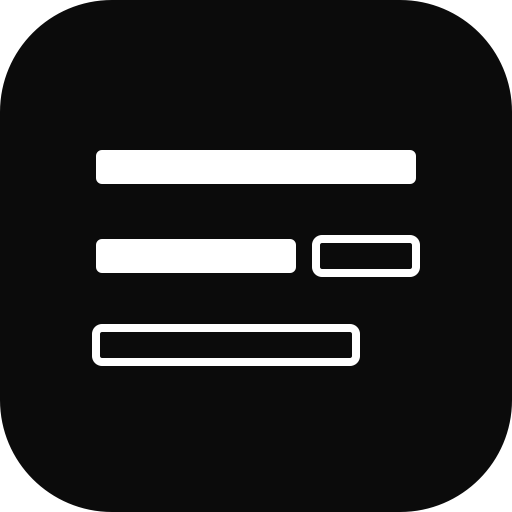
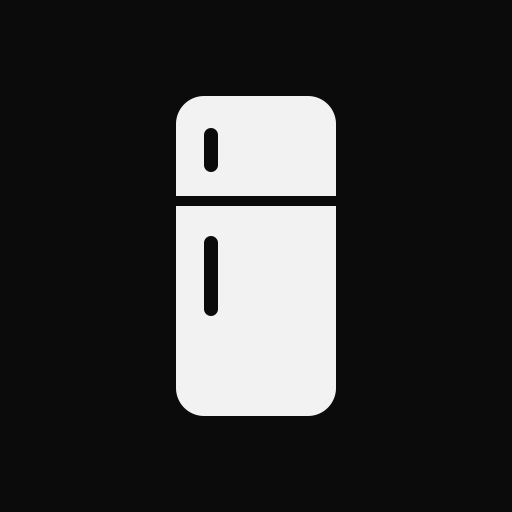
Spiżarnia zamiast blatu (regał), plecak jako pudełko śniadaniowe, nowa ikona z lodówką

diff --git a/app/ekrany/lodowka.js b/app/ekrany/lodowka.js
@@ -1,4 +1,4 @@
-// Kuchnia (dawniej Lodówka): lodówka z ugotowanymi porcjami, blat ze śniadaniami i plecak z przekąską.
+// Kuchnia (dawniej Lodówka): lodówka z ugotowanymi porcjami, spiżarnia ze śniadaniami i plecak z przekąską.
 // Podpowiada miejsce według pory dnia, ale jesz, na co masz ochotę.
 import {
   cofnijPrzelozenie, cofnijZjedzenie, lodowka, przelozDoLodowki, przepisy, tenTydzien, wlozDoLodowki,
@@ -42,7 +42,7 @@ function wyjazdTekst(app, plan, dzisiaj) {
   return ` · ${jutro ? "jutro" : wDzien(kiedy)} ${stan === "wieczor" ? "wieczorem" : "rano"} ${esc(wyjazd)}`;
 }
 
-// Kuchnia narysowana na górze ekranu: lodówka, blat i plecak na haczyku. Podpowiadane miejsce (według pory dnia)
+// Kuchnia narysowana na górze ekranu: lodówka, spiżarnia (regał) i plecak (pudełko śniadaniowe). Podpowiadane miejsce (według pory dnia)
 // jest jaśniejsze; stuknięcie innego otwiera je pod rysunkiem. Lodówka pokazuje karteczkę „Najpierw” i półki.
 let miejsce = null; // miejsce wybrane ręcznie; null = to, które podpowiada pora dnia
 let wybrane = null; // id porcji przeniesionej na karteczkę stuknięciem półki
@@ -77,11 +77,29 @@ function karteczka(app, x, dzisiaj, pierwsze, ileWZamrazarce, plan) {
         <button type="button" class="link" data-akcja="juzUgotowane">już ugotowane</button></div>`;
   }
   if (ileWZamrazarce) {
-    return `<h1>W lodówce pusto</h1><span class="wyciszony">Przełóż coś z zamrażarki na jutro, a dziś zajrzyj na blat: tam jest coś bez gotowania.</span>${cofnij}`;
+    return `<h1>W lodówce pusto</h1><span class="wyciszony">Przełóż coś z zamrażarki na jutro, a dziś zajrzyj do spiżarni: tam jest coś bez gotowania.</span>${cofnij}`;
   }
   return `<h1>Lodówka jest pusta</h1><span class="wyciszony">Ułóż plan na tydzień: planer wybierze dania na poniedziałkowe gotowanie i zrobi listę zakupów.</span>
     <div class="przyciski"><a class="przycisk glowny" href="#tydzien">Ułóż tydzień</a></div>${cofnij}`;
 }
+
+// Kształt rysunku: prostokąt w pikselach (x, y, szerokość, wysokość), rola koloru i zaokrąglenie.
+const k = (x, y, w, h, rola, r = "0") => `<span class="${rola}" style="left:${x}px;top:${y}px;width:${w}px;height:${h}px;border-radius:${r}"></span>`;
+
+// Spiżarnia: regał z trzema półkami — słoiki z pokrywkami, paczka, puszki, torebka i duże słoje.
+const SPIZARNIA = [
+  k(0, 0, 130, 150, "ksztalt", "10px"), k(7, 7, 116, 136, "ciemne", "6px"), k(7, 52, 116, 5, "detal"), k(7, 98, 116, 5, "detal"),
+  ...[[14, 30], [34, 24], [54, 34]].flatMap(([x, h]) => [k(x, 52 - h, 16, h, "akcent", "5px"), k(x + 2, 48 - h, 12, 5, "detal", "2px")]),
+  k(82, 22, 30, 30, "akcent", "4px"),
+  ...[14, 34, 54].map((x) => k(x, 76, 17, 22, "akcent", "3px")), k(80, 64, 30, 34, "akcent", "6px 6px 3px 3px"),
+  k(16, 111, 34, 32, "akcent", "8px"), k(58, 117, 26, 26, "akcent", "8px"), k(92, 113, 24, 30, "akcent", "8px"),
+].join("");
+
+// Plecak: pudełko śniadaniowe z rączką i zapięciem.
+const PUDELKO = [
+  k(24, 42, 44, 22, "detal", "22px 22px 0 0"), k(32, 50, 28, 14, "ciemne", "14px 14px 0 0"),
+  k(0, 62, 92, 64, "ksztalt", "14px"), k(0, 62, 92, 18, "detal", "14px 14px 4px 4px"), k(38, 74, 16, 14, "akcent", "4px"),
+].join("");
 
 function rysunekKuchni(wyb, pod) {
   const przycisk = (co, rys) => `<button type="button" class="miejsce m-${co}${co === wyb ? " wybrane" : ""}${co === pod ? " podpowiadane" : ""}"
@@ -89,8 +107,8 @@ function rysunekKuchni(wyb, pod) {
       <span class="rys" aria-hidden="true">${rys}</span><span class="podpis">${MIEJSCA[co]}</span></button>`;
   return `<div class="kuchnia" role="group" aria-label="Kuchnia">
     ${przycisk("lod", `<span class="ksztalt lod-korpus"><span class="lod-zam"></span><span class="detal lod-uchwyt g"></span><span class="detal lod-uchwyt d"></span></span>`)}
-    ${przycisk("blat", `<span class="detal sloik s1"></span><span class="detal sloik s2"></span><span class="owoc o1"></span><span class="owoc o2"></span><span class="owoc o3"></span><span class="detal miska"></span><span class="blat-gora"></span><span class="ksztalt szafka"></span>`)}
-    ${przycisk("plecak", `<span class="hak"></span><span class="detal ucho"></span><span class="ksztalt worek"></span><span class="detal klapa"></span><span class="detal kieszen"></span>`)}
+    ${przycisk("blat", SPIZARNIA)}
+    ${przycisk("plecak", PUDELKO)}
   </div>`;
 }
 
@@ -148,7 +166,7 @@ function panelBlat(app, pod, dzisiaj, maPorcje) {
     czesci.push(grupa("Z tego, co masz, zrobisz też", lista(propozycje(stan, { posilek: "sniadanie", pomin: sn ? [sn] : [] }))));
   }
   const owoce = naBlacie(stan);
-  czesci.push(grupa("Na blacie", owoce.length ? `<p class="wyciszony">${esc(owoce.join(", "))}</p>` : ""));
+  czesci.push(grupa("Owoce", owoce.length ? `<p class="wyciszony">${esc(owoce.join(", "))}</p>` : ""));
   const spizarnia = wSpizarni(app.dane, stan);
   czesci.push(grupa("W spiżarni", spizarnia.length ? `<p class="wyciszony">${esc(spizarnia.slice(0, 8).join(", "))}${spizarnia.length > 8 ? ` i ${spizarnia.length - 8} innych` : ""}</p>` : ""));
   return czesci.join("");

diff --git a/styl.css b/styl.css
@@ -345,7 +345,7 @@ body.gotowanie-poziomo main {
 .zakupy-pozycja input { width: 24px; height: 24px; margin-top: 2px; accent-color: #BDBDBD; flex-shrink: 0; }
 .zakupy-pozycja.kupione { opacity: 0.35; text-decoration: line-through; }
 
-/* --- Kuchnia: rysunek (lodówka, blat, plecak na haczyku); podpowiadane albo wybrane miejsce jest jaśniejsze --- */
+/* --- Kuchnia: rysunek (lodówka, spiżarnia, plecak); podpowiadane albo wybrane miejsce jest jaśniejsze --- */
 .kuchnia { height: 196px; display: flex; align-items: flex-end; justify-content: space-between; gap: 10px; padding: 0 4px; }
 .miejsce { border: none; background: none; padding: 0; color: inherit; cursor: pointer; display: flex; flex-direction: column; align-items: center; gap: 8px; }
 .miejsce .rys { position: relative; display: block; }
@@ -363,26 +363,12 @@ body.gotowanie-poziomo main {
 .miejsce .lod-uchwyt { left: 10px; width: 5px; border-radius: 3px; }
 .miejsce .lod-uchwyt.g { top: 15px; height: 24px; }
 .miejsce .lod-uchwyt.d { top: 66px; height: 44px; }
-.m-blat .rys { width: 124px; height: 124px; }
-.miejsce .sloik { bottom: 80px; width: 16px; border-radius: 6px; }
-.miejsce .sloik.s1 { left: 8px; height: 30px; }
-.miejsce .sloik.s2 { left: 28px; height: 22px; }
-.miejsce .miska { left: 62px; bottom: 80px; width: 46px; height: 20px; border-radius: 0 0 23px 23px; }
-.miejsce .owoc { width: 14px; height: 14px; border-radius: 50%; background: #2E2E2E; }
-.miejsce.wybrane .owoc { background: #8C8C8C; }
-.miejsce .owoc.o1 { left: 70px; bottom: 96px; }
-.miejsce .owoc.o2 { left: 85px; bottom: 97px; }
-.miejsce .owoc.o3 { left: 77px; bottom: 108px; }
-.miejsce .blat-gora { left: 0; right: 0; bottom: 70px; height: 10px; border-radius: 4px; background: #2A2A2A; }
-.miejsce.wybrane .blat-gora { background: #6E6E6E; }
-.miejsce .szafka { left: 5px; right: 5px; bottom: 0; height: 70px; border-radius: 0 0 10px 10px; }
-/* Plecak wisi na haczyku wyżej, ale jego podpis stoi w jednej linii z pozostałymi. */
-.m-plecak .rys { width: 78px; height: 126px; margin-bottom: 34px; }
-.miejsce .hak { left: 33px; top: 0; width: 12px; height: 12px; border-radius: 50%; background: #2A2A2A; }
-.miejsce .ucho { left: 28px; top: 7px; width: 22px; height: 20px; border-radius: 11px 11px 0 0; }
-.miejsce .worek { left: 3px; top: 22px; width: 72px; height: 100px; border-radius: 22px 22px 12px 12px; }
-.miejsce .klapa { left: 3px; top: 22px; width: 72px; height: 34px; border-radius: 22px 22px 9px 9px; }
-.miejsce .kieszen { left: 16px; top: 78px; width: 46px; height: 30px; border-radius: 9px; }
+/* Spiżarnia (regał) i plecak (pudełko śniadaniowe): kształty z pozycją w stylu, kolor z roli */
+.m-blat .rys { width: 130px; height: 150px; }
+.m-plecak .rys { width: 92px; height: 126px; }
+.miejsce .akcent { background: #2E2E2E; }
+.miejsce.wybrane .akcent { background: #8C8C8C; }
+.miejsce .ciemne { background: var(--tlo); }
 .panel-kuchni { display: flex; flex-direction: column; gap: 14px; }
 .grupa-kuchni { display: flex; flex-direction: column; gap: 2px; margin-top: 4px; }
 .grupa-kuchni h2 { margin: 0 0 2px; font-weight: 600; }

diff --git a/app/kuchnia.js b/app/kuchnia.js
@@ -1,11 +1,12 @@
-// Kuchnia: trzy miejsca — lodówka (ugotowane porcje), blat (śniadania, owoce, spiżarnia) i plecak (przekąska).
-// Planer patrzy na godzinę i podpowiada jedno miejsce. Blat i plecak niczego nie liczą: pokazują danie z planu
+// Kuchnia: trzy miejsca — lodówka (ugotowane porcje), spiżarnia (śniadania, owoce, zapasy) i plecak (przekąska).
+// Planer patrzy na godzinę i podpowiada jedno miejsce. Spiżarnia i plecak niczego nie liczą: pokazują danie z planu
 // i co jeszcze da się zrobić z tego, co jest w domu albo na liście zakupów tego tygodnia.
 import { kontekst, planZDopisanymi, tenTydzien } from "./stan.js";
 import { dodaj, roznica } from "./narzedzia.js";
 import { zapotrzebowanie } from "../silnik/generator.js";
 
-export const MIEJSCA = { lod: "Lodówka", blat: "Blat", plecak: "Plecak" };
+// „blat” to dziś Spiżarnia (nazwa wewnętrzna została, żeby nie ruszać zapisanych danych).
+export const MIEJSCA = { lod: "Lodówka", blat: "Spiżarnia", plecak: "Plecak" };
 export const DOMYSLNE_GODZINY = { sniadanie: "07:30", przekaska: "11:00", obiad: "14:00", kolacja: "19:00" };
 export const POSILKI_KUCHNI = ["sniadanie", "przekaska", "obiad", "kolacja"];
 const MIEJSCE_POSILKU = { sniadanie: "blat", przekaska: "plecak", obiad: "lod", kolacja: "lod" };
@@ -35,7 +36,7 @@ export function poraDnia(profil, teraz = new Date()) {
   return p ? { posilek: p, jutro: false, przed: false } : { posilek: "sniadanie", jutro: false, przed: true };
 }
 
-// Podpowiadane miejsce i krótki powód. Pusta lodówka w porze obiadu albo kolacji → blat (coś bez gotowania).
+// Podpowiadane miejsce i krótki powód. Pusta lodówka w porze obiadu albo kolacji → spiżarnia (coś bez gotowania).
 export function podpowiedz(profil, maPorcje, teraz = new Date()) {
   const pora = poraDnia(profil, teraz);
   let miejsce = MIEJSCE_POSILKU[pora.posilek];

diff --git a/app/ekrany/wiecej.js b/app/ekrany/wiecej.js
@@ -83,7 +83,7 @@ function rysujProfil(app) {
       <div class="siatka2">
         ${POSILKI_KUCHNI.map((k) => `<label class="pole">${POSILKI[k].replace(/^./, (z) => z.toUpperCase())}<input name="godz_${k}" type="time" value="${esc(godziny[k])}"></label>`).join("")}
       </div>
-      <p class="wyciszony maly">Według nich Kuchnia podpowiada: rano blat, w porze przekąski plecak, w porze obiadu i kolacji lodówkę.</p>
+      <p class="wyciszony maly">Według nich Kuchnia podpowiada: rano spiżarnię, w porze przekąski plecak, w porze obiadu i kolacji lodówkę.</p>
       <label class="pole">Czego nie jesz (po przecinku)<input name="wykluczone" type="text" value="${esc((p.wykluczone ?? []).join(", "))}"></label>
       <p class="wyciszony maly">Planer pomija dania, w których jest taki produkt, np. „wieprzowina”, „łosoś”, „soczewica”. Działa od następnego układania tygodnia.</p>
       <p id="bledy-profilu" class="karta odwrocona" hidden></p>

diff --git a/sw.js b/sw.js
@@ -1,6 +1,6 @@
 // Planer działa bez internetu: przy instalacji zapisuje wszystkie swoje pliki w pamięci telefonu.
 // Nowa wersja planera = nowa nazwa pamięci (WERSJA); stara jest usuwana przy aktywacji.
-const WERSJA = "planer-dash-21";
+const WERSJA = "planer-dash-22";
 const PLIKI = [
   "./", "index.html", "styl.css", "manifest.webmanifest", "ikona.svg", "ikona-180.png", "ikona-512.png",
   "app/main.js", "app/stan.js", "app/narzedzia.js", "app/harmonogram.js", "app/wyjazdy.js", "app/razem.js", "app/kuchnia.js", "app/kalendarz.js", "app/miary.js", "app/zakupy-kiedy.js",

diff --git a/app/main.js b/app/main.js
@@ -13,7 +13,7 @@ let zakladka = "lodowka";
 const ekran = document.getElementById("ekran");
 
 export const app = {
-  wersja: "21",
+  wersja: "22",
   pomiar: "",
   dane: wczytaj(),
   ekran: "lodowka",
